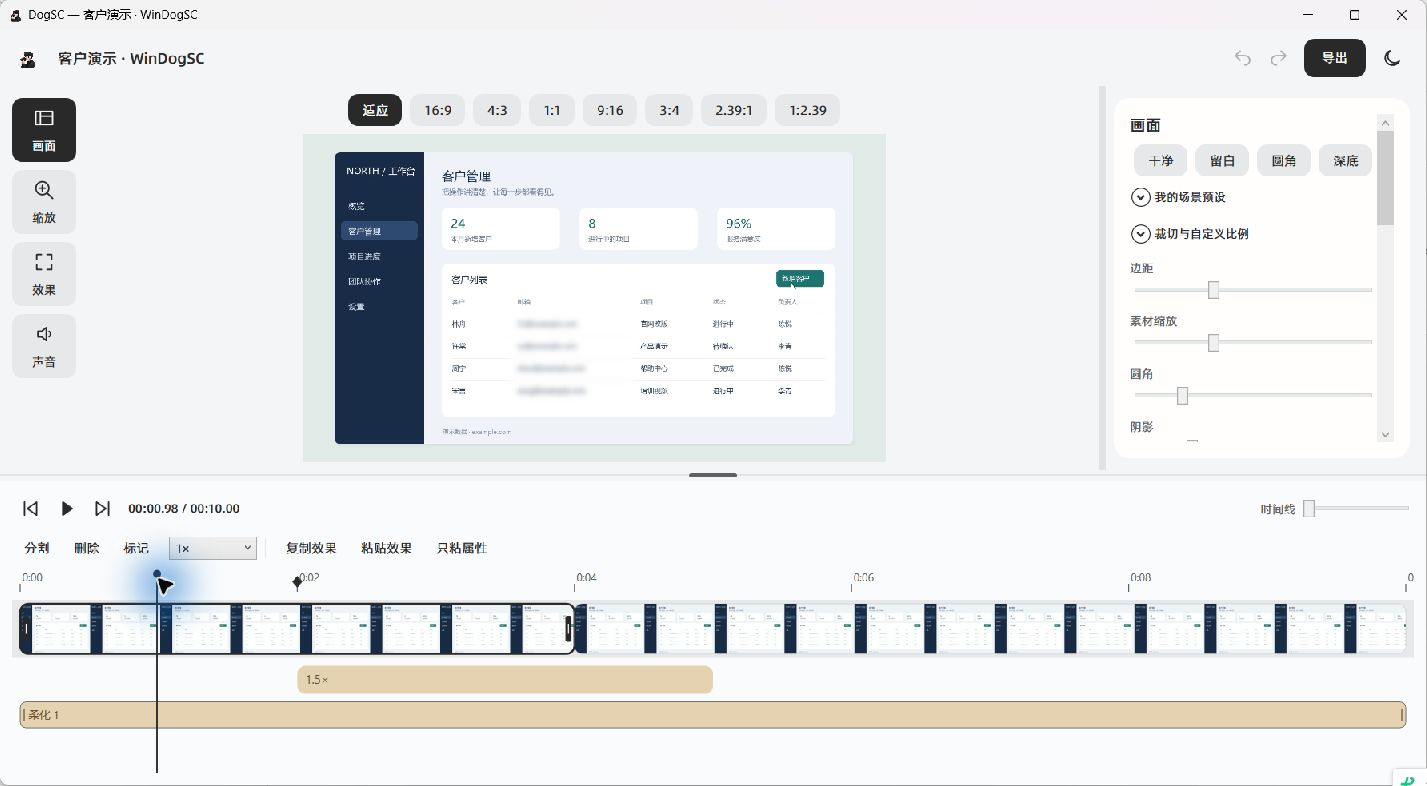
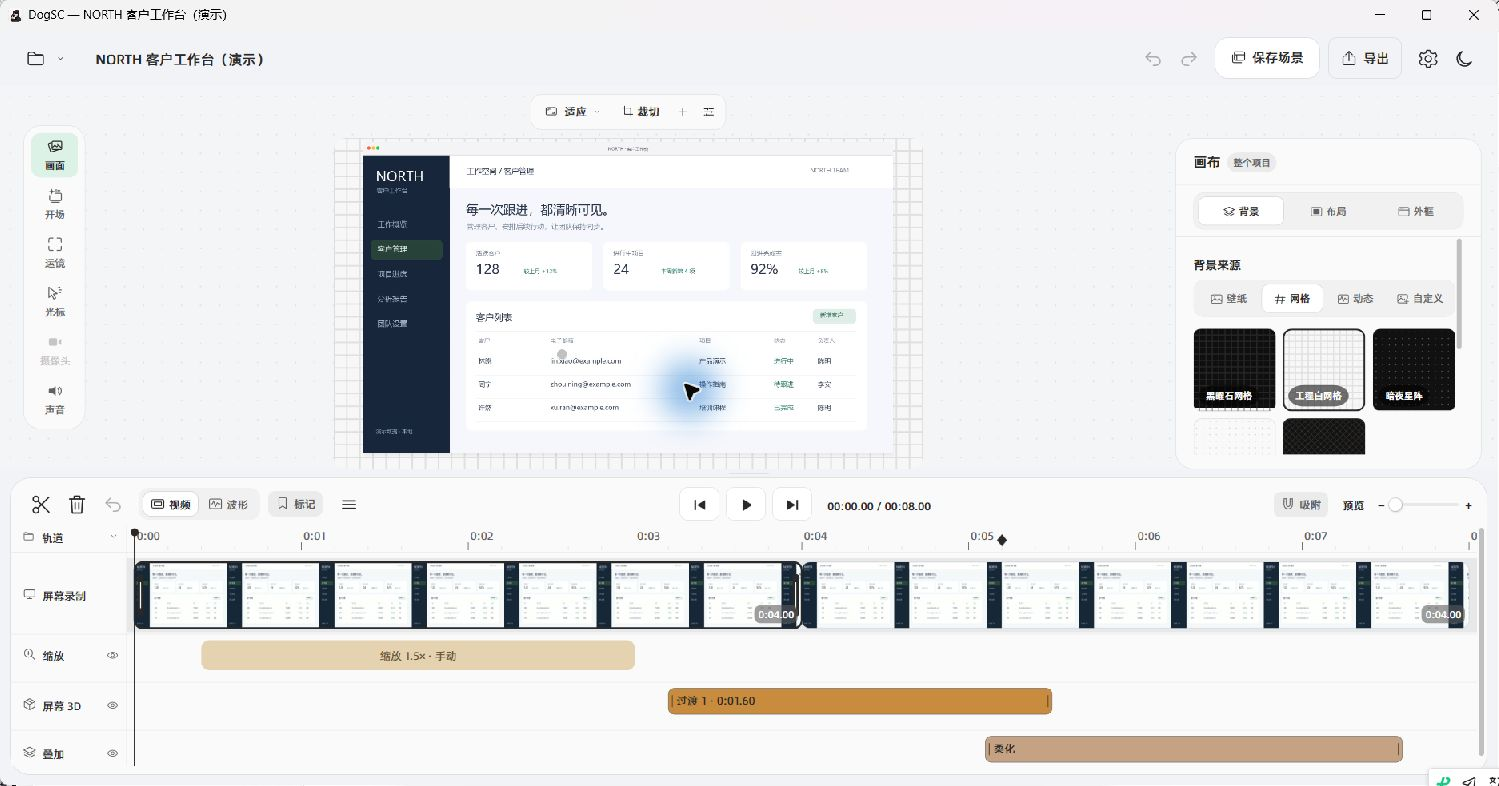
Refresh Windows editor documentation and screenshots

diff --git a/docs/images/windows/SOURCES.md b/docs/images/windows/SOURCES.md
@@ -1,7 +1,8 @@
 # README 素材来源
 
-- `editor.png`、`motion.png`、`effects.png`：2026-10-09 从本仓库 Windows / WPF 开发版实际运行窗口取得，截图对应编辑器概览、缩放构图与柔化区域编辑。未使用 Mac 截图冒充 Windows 界面。
+- `editor.png`、`motion.png`、`screen3d.png`、`effects.png`、`export.png`：2026-10-11 从本仓库当前 Windows / WPF 开发版实际运行窗口重新采集，替换 2026-10-09 的旧界面截图。分别展示六入口导航与背景素材、缩放焦点与倍率、屏幕 3D 构图与倾斜、柔化选区及浮动工具条、成片导出设置。
 - 视频中的 NORTH 工作台为专门绘制的演示内容，客户姓名、邮箱和数据均为虚构；邮箱使用 `example.com`。这部分是被编辑的视频内容，产品控件来自真实程序。演示项目仅用于截图，拍摄后删除。
 - `platform.svg`、`runtime.svg`、`license.svg`：本地静态 SVG，分别表示当前发布目标、应用技术栈与项目许可，不表示实时 CI 状态。
 - 根 README 使用的应用图标 `Resources/AppIconMaster.png` 继承自 [laogou717/DogSC](https://github.com/laogou717/dogsc)，项目按根目录 MIT 许可证保留上游版权声明。
-- 本目录截图为原始窗口截图；更新界面后应重新拍摄对应页面，并同步 README 描述。
+- 通过 Computer Use 捕获实际 WPF 窗口，截图保留原始界面与窗口边框；没有拼接控件或使用生成 UI。截图宿主加载当前应用程序集和独立临时演示项目，未修改已有核对项目；拍摄后清理宿主与演示素材。
+- 更新界面后应重新拍摄对应页面，并同步根 README、`windows/README.md` 的入口与描述。`docs/images/` 下原有的 macOS 图片属于上游历史素材，当前 Windows README 不引用它们。
